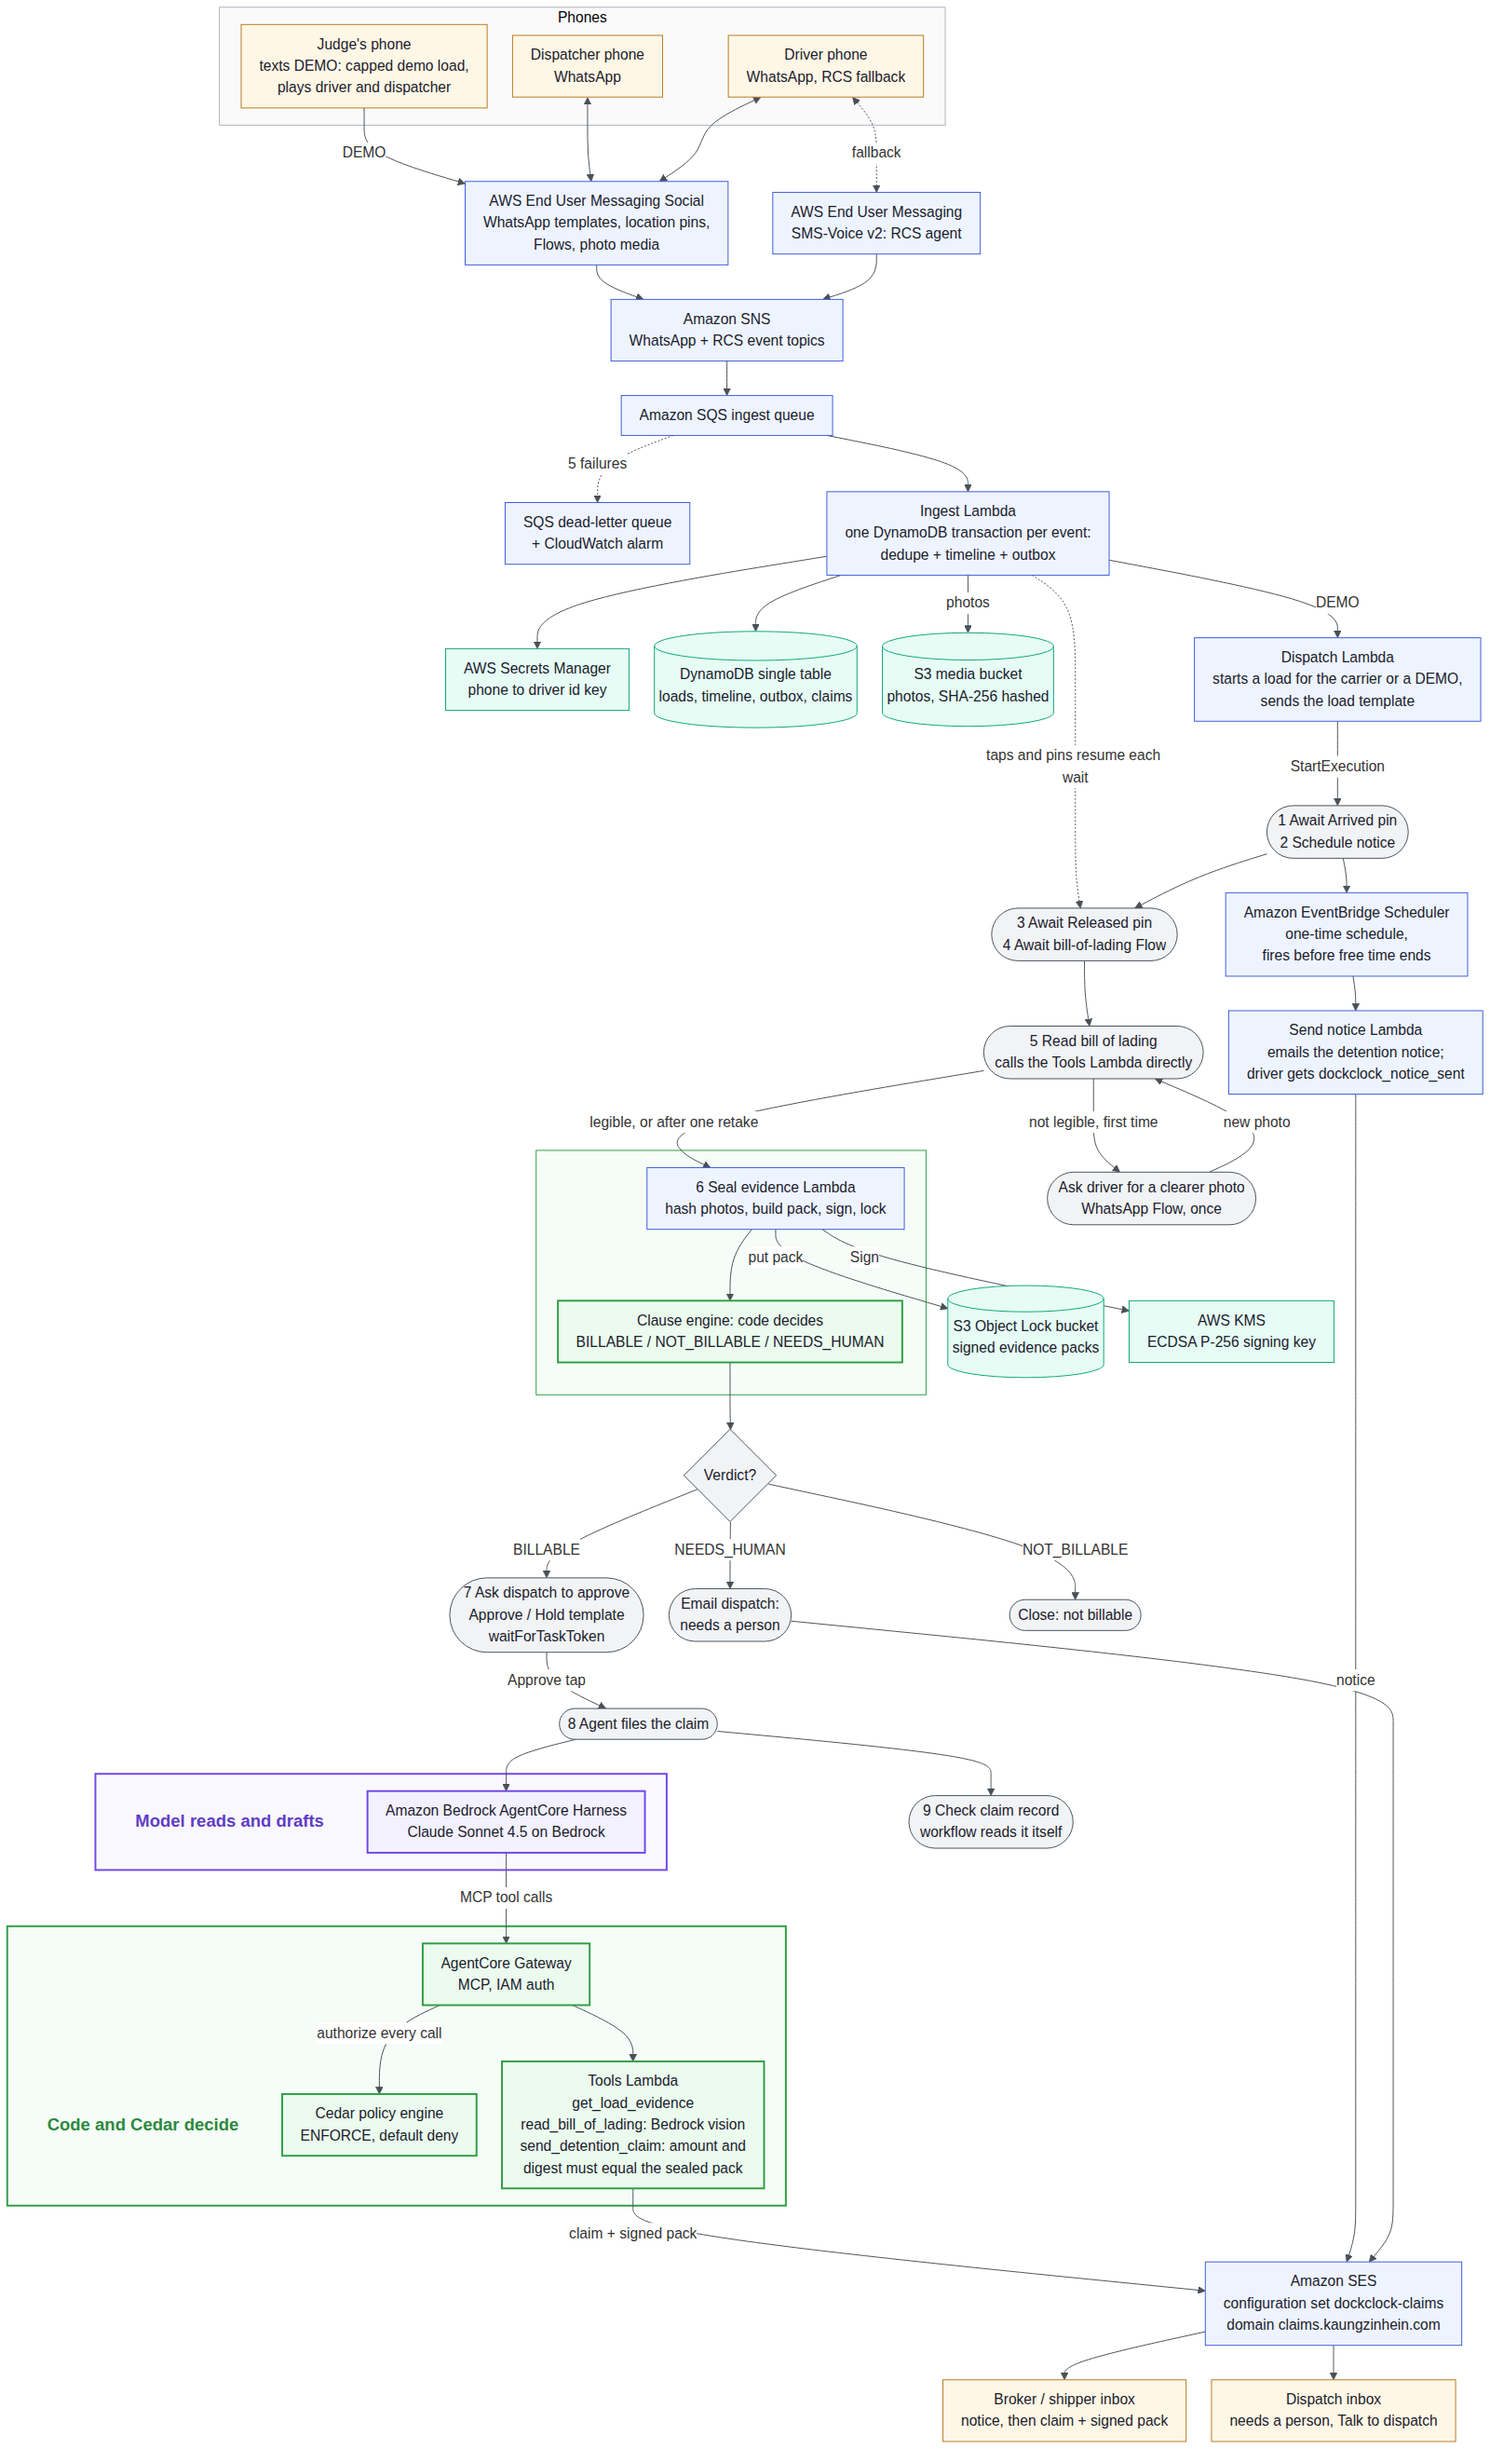
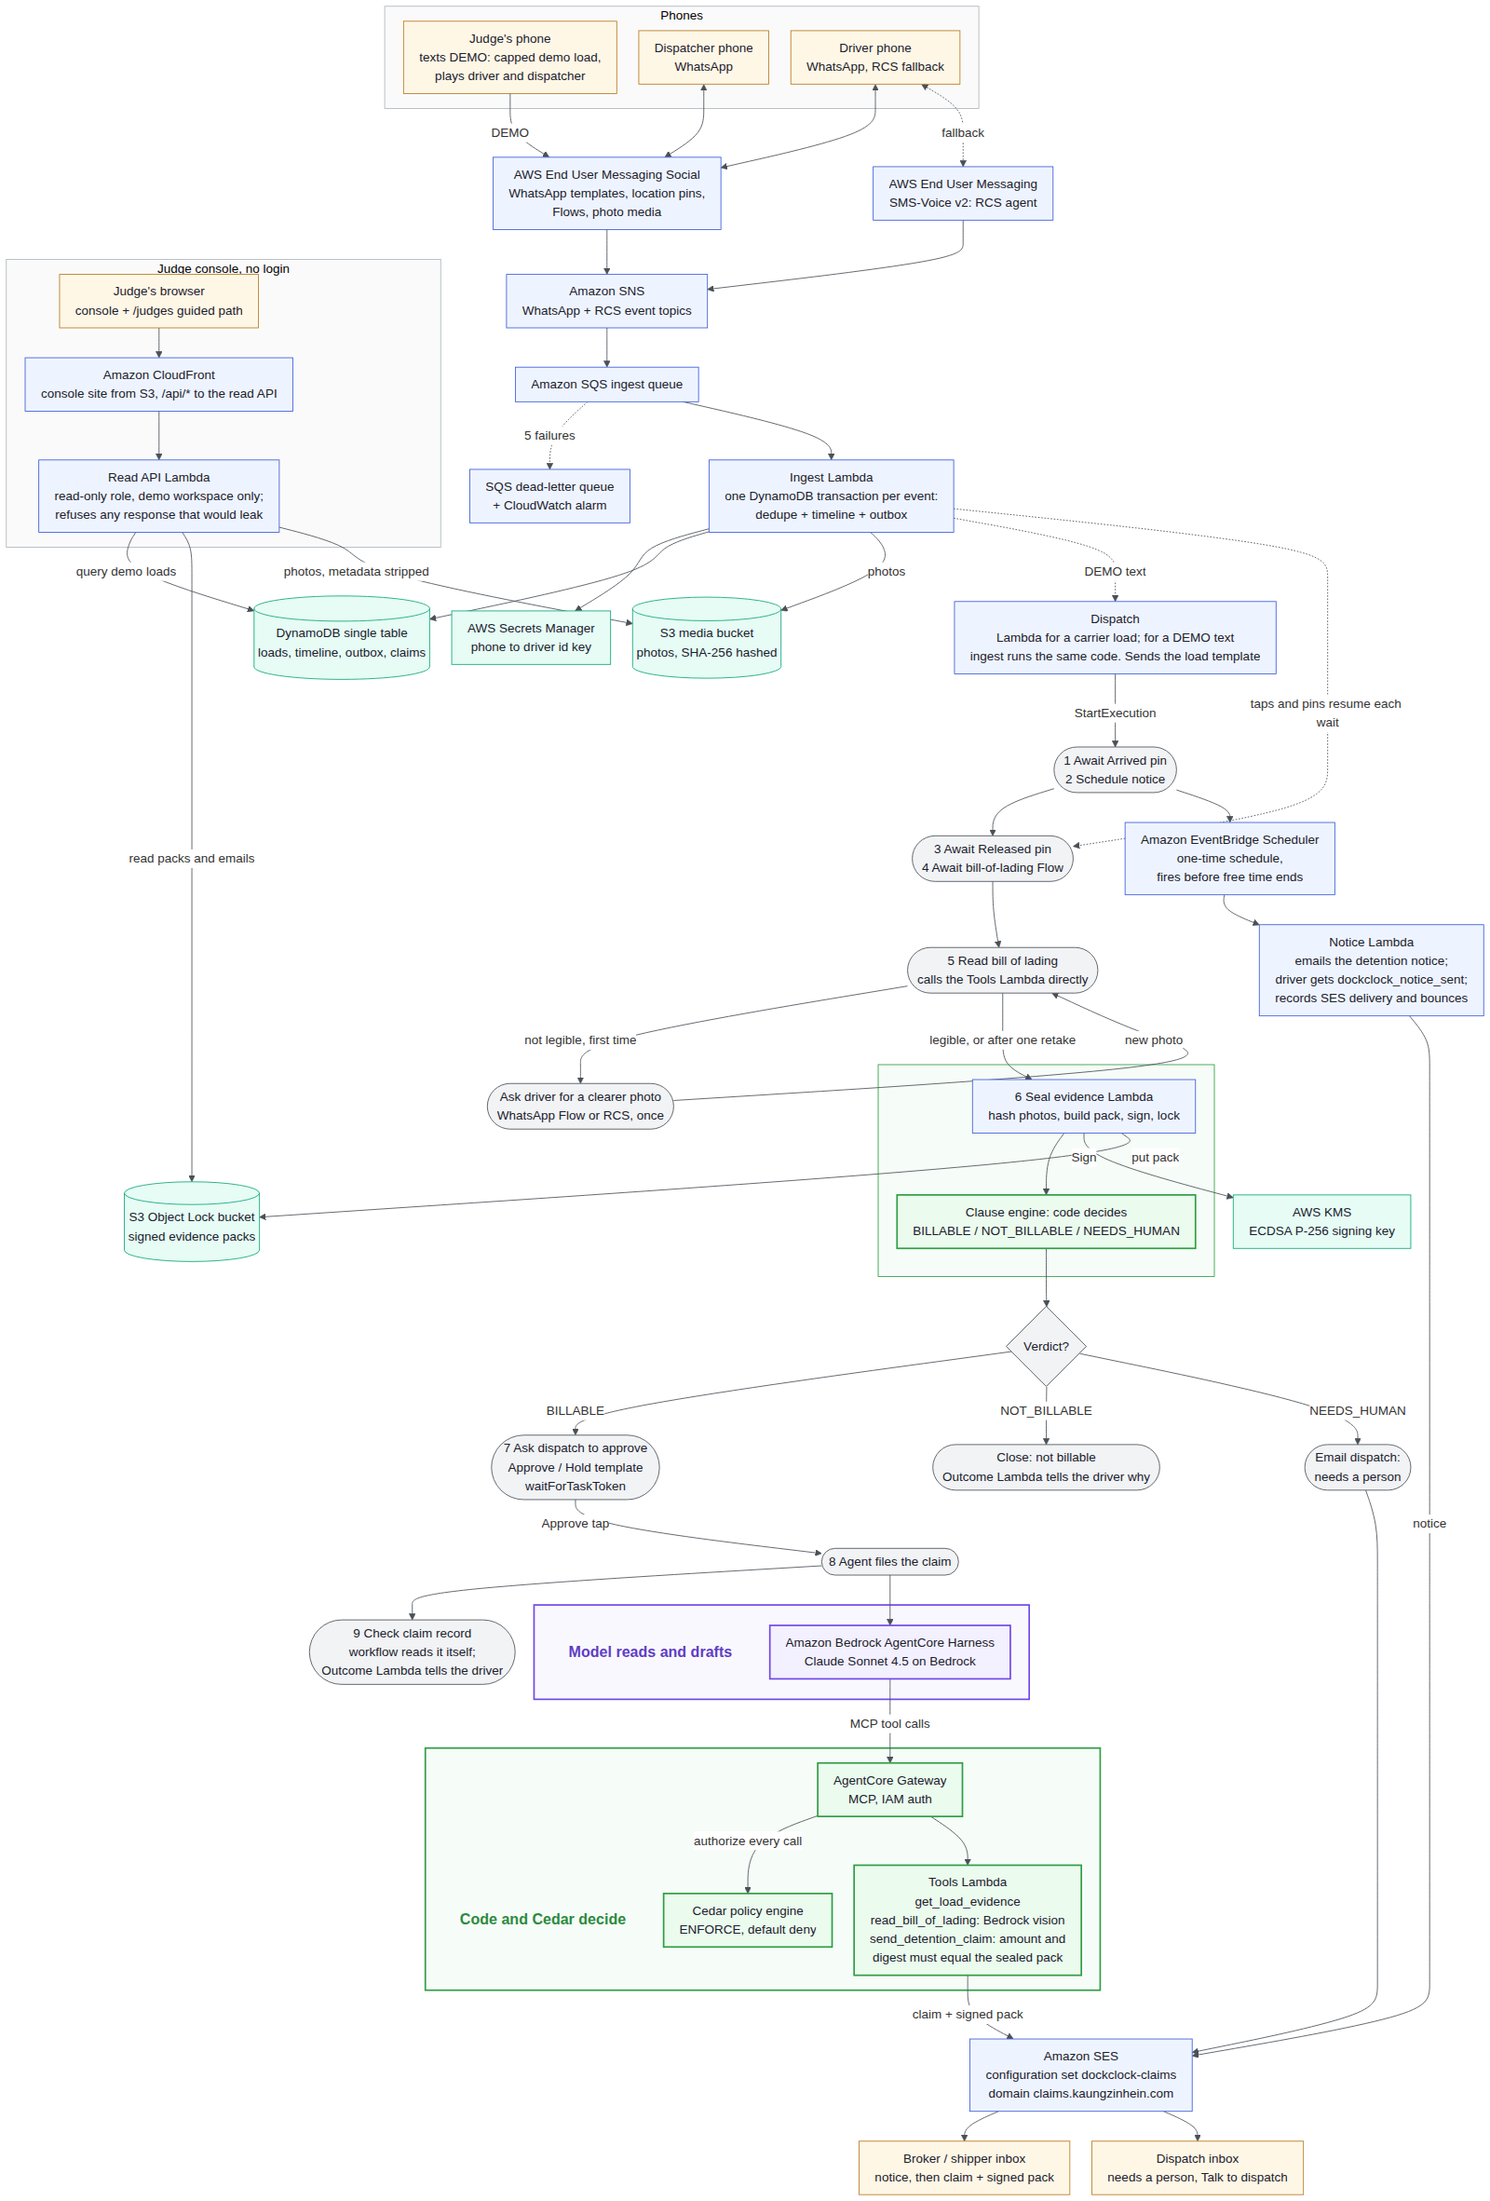
docs: add the judge console to the README and diagram, five stacks, correct who reads the BOL
Claude-Session: https://claude.ai/code/session_01WdL4F7Wc8ms4xPzsNVLR1w

diff --git a/README.md b/README.md
@@ -33,25 +33,27 @@ Carriers also skip billing because they expect to be refused and don't want to d
 4. **Sealed evidence.** Every photo is downloaded into S3 and hashed. The evidence pack is signed with an AWS KMS key and stored under S3 Object Lock, so anyone with the public key can check it later.
 5. **The contract decides, not the model.** A deterministic clause engine returns `BILLABLE`, `NOT_BILLABLE` (with the clause's reason) or `NEEDS_HUMAN`. Pre-filled times the driver left unchanged do not count as independent proof.
 6. **Dispatch approves on WhatsApp.** A BILLABLE load sends the dispatcher the `dockclock_dispatch_approval` template. Only the dispatcher's number, with that request's nonce, can approve, and only once. **Hold** stops the claim; no answer in two days hands it to a person.
-7. **The agent files the claim.** A Bedrock AgentCore agent reads the bill-of-lading photo before sealing, then, once dispatch approves, writes the claim email to the broker or shipper and sends it with Amazon SES, attaching the signed pack. It can only call DockClock's tools through an AgentCore Gateway, where Cedar policies allow the claim tool only with an approval and an amount under a cap. The tool then refuses unless the amount and pack digest equal the sealed values, so a prompt cannot change the money.
+7. **The agent files the claim.** Before sealing, the workflow calls the agent's bill-of-lading tool, which reads the photo with Claude on Amazon Bedrock; the reading only raises or lowers the evidence confidence, it never sets a time or an amount. Once dispatch approves, the Bedrock AgentCore agent writes the claim email to the broker or shipper and sends it with Amazon SES, attaching the signed pack. It can only call DockClock's tools through an AgentCore Gateway, where Cedar policies allow the claim tool only with an approval and an amount under a cap. The tool then refuses unless the amount and pack digest equal the sealed values, so a prompt cannot change the money.
 
 ## What works today, and what is still being built
 We'll tell you before you find it. Every line below is traced to a test, a file or a run in [`FACTS.md`](FACTS.md). Load ids say what kind of run it was: `LIVE-` loads were driven from a real phone; `SMOKE-` loads replay synthetic driver messages through the deployed stack, so everything after the phone (workflow, agent, SES, KMS) is real.
 
-| Works today (proven) | Being built before the 2026-10-24 freeze |
+| Works today (proven) | Not built, or not yet run live |
 |---|---|
-| Steps 1–5 above, run live on a real phone over AWS End User Messaging Social (load `LIVE-mve0rrez`) | Replies to disputes |
+| Steps 1–5 above, run live on a real phone over AWS End User Messaging Social (load `LIVE-mve0rrez`) | Replies to disputes (not built) |
 | **The whole money loop, automatic after sealing:** the dispatcher gets a WhatsApp approval template, taps **Approve claim**, and the AgentCore agent files the claim by SES with the signed pack; the workflow then reads the claim record itself before it reports success (load `SMOKE-mve8yfv3`: synthetic driver messages, a real approval template and tap on the operator's phone, and the claim emailed by SES to our test mailbox 14 seconds after the tap) | A live phone run of the photo retake and of the judge try-it path (both built and tested) |
 | **The detention notice:** EventBridge Scheduler fires before free time ends, SES emails the broker or shipper, the delivery event is recorded, and the sealed pack carries the notice, so clauses that require notice can pay (load `SMOKE-mveb2qnf`, synthetic driver messages: SES reported delivery to our test mailbox 0.7 s after sending) | |
 | A **Bedrock AgentCore** claims agent (Harness + Gateway) bounded by Cedar policies and a code gate on the sealed amount and digest; it refuses without an approval, and a second filing for the same load is refused (the claim is reserved before SES is called) | |
 | Bill-of-lading reading: **26 of 26 fields correct** on 7 fictional test photos, and an honest "not legible" on a real blurry phone photo; the reading is part of the signed evidence. An unreadable photo gets one request for a clearer one (tested; a live phone run is pending) | |
 | **RCS** for drivers without WhatsApp and as failover when a WhatsApp send fails (live on a real phone, load `LIVE-mve1ve6d`: dispatch card, Arrived, two location pins and a bill-of-lading photo over RCS, 2026-10-18 12:52–12:54 EDT; the WhatsApp-to-RCS failover is tested and run with synthetic events) | |
-| Duplicate, out-of-order and stale taps refused; STOP/START honoured; "Talk to dispatch" answers the driver and emails dispatch; a tampered pack fails verification; over 160 automated tests | |
+| Duplicate, out-of-order and stale taps refused; STOP/START honoured; "Talk to dispatch" answers the driver and emails dispatch; a tampered pack fails verification; about 300 automated tests | |
 
 Today the scorecard measures the clause engine on 24 hand-labelled test loads. Its truth column was written by us from each clause's text, so it is a consistency check, not field data.
 
 ## Try it yourself (judges)
-Send **DEMO** on WhatsApp to the DockClock number given on the Devpost submission page (**DEMO ES** for Spanish, **DEMO FR** for Québécois French). It takes about 10 minutes, most of it the real wait (10 more if a photo has to be retaken). You are both the driver and the dispatcher:
+**No phone needed:** open the console at https://d3djuoqhg6b8o2.cloudfront.net/judges. It walks one recorded load in five steps: what was proved, the signed evidence, the filed claim, breaking the signature yourself, and changing one fact. The screens read the live system (a recorded copy stands in if the API is down), and nothing needs a login.
+
+**With a phone:** send **DEMO** on WhatsApp to the DockClock number given on the Devpost submission page (**DEMO ES** for Spanish, **DEMO FR** for Québécois French). It takes about 10 minutes, most of it the real wait (10 more if a photo has to be retaken). You are both the driver and the dispatcher:
 1. Tap **Arrived** and share your location. In the demo any location counts; the pin is still recorded with WhatsApp's server timestamp.
 2. Free time is 5 minutes. Wait longer than that. Shortly after you arrive a detention notice is emailed, and the chat tells you.
 3. Tap **Released**, share your location again, write on a piece of paper the arrival and release times the chat and the form show (US Eastern time in the demo), and photograph it in the form. Keep the times the form suggests.
@@ -90,7 +92,7 @@ Per load this is **3 utility templates (driver dispatch, notice sent, dispatcher
 ## Run it
 ```bash
 npm ci
-npm test            # over 160 tests
+npm test            # about 300 tests (plus the console's own)
 npm run scorecard   # recomputes the headline above
 ```
 Deploying to your own AWS account (CDK) needs an existing WhatsApp Business Account linked to AWS End User Messaging Social; see `.env.example`.

diff --git a/docs/architecture.md b/docs/architecture.md
@@ -1,6 +1,6 @@
 # DockClock architecture
 
-![DockClock architecture: driver and dispatcher phones, AWS End User Messaging, the Step Functions load lifecycle, sealed evidence, the AgentCore claims agent behind Cedar, and Amazon SES](architecture.png)
+![DockClock architecture: driver and dispatcher phones, AWS End User Messaging, the Step Functions load lifecycle, sealed evidence, the AgentCore claims agent behind Cedar, Amazon SES, and the judge console on CloudFront](architecture.png)
 
 Source: [`architecture.mmd`](architecture.mmd) (Mermaid). Vector copy: [`architecture.svg`](architecture.svg). Re-render both with `npx tsx scripts/render-architecture.ts`.
 
@@ -25,11 +25,11 @@ Source: [`architecture.mmd`](architecture.mmd) (Mermaid). Vector copy: [`archite
 | AWS End User Messaging SMS-Voice v2 | Runs the RCS agent that reaches drivers without WhatsApp and takes over when a WhatsApp send fails. |
 | Amazon SNS | Carries inbound WhatsApp and RCS events (and SES delivery events) from the messaging services to DockClock. |
 | Amazon SQS | Buffers every inbound event for the ingest Lambda, and parks an event that fails five times in a dead-letter queue. |
-| AWS Lambda | Runs DockClock's code: ingest, dispatch, the wait steps, sealing, notices, approval requests, the agent's tools and the agent invoker. |
+| AWS Lambda | Runs DockClock's code: ingest, dispatch, the wait steps, sealing, notices, approval requests, outcomes to the driver, the agent's tools, the agent invoker and the console's read API. |
 | Amazon DynamoDB | Holds each load in one table, and the ingest Lambda writes one transaction per event that dedupes it, appends the timeline and queues the outbox. |
 | AWS Step Functions | Runs one load lifecycle per load, waiting on task tokens for the driver's pins and Flow and the dispatcher's approval. |
 | Amazon EventBridge Scheduler | Fires a one-time schedule, set after the Arrived pin, that sends the detention notice before free time ends. |
-| Amazon S3 | Keeps the driver's photos (hashed) in a media bucket and the signed evidence packs in an Object Lock bucket. |
+| Amazon S3 | Keeps the driver's photos (hashed) in a media bucket, the signed evidence packs and sent emails in an Object Lock bucket, and the console's static site. |
 | AWS KMS | Signs each evidence pack with an ECDSA P-256 key whose public half lets anyone verify it offline. |
 | AWS Secrets Manager | Holds the key that turns a phone number into an opaque driver id. |
 | Amazon Bedrock | Runs Claude Sonnet 4.5, which reads the bill-of-lading photo and drafts the claim email. |
@@ -37,5 +37,7 @@ Source: [`architecture.mmd`](architecture.mmd) (Mermaid). Vector copy: [`archite
 | Amazon Bedrock AgentCore Gateway | Serves DockClock's tools to the agent over MCP with IAM auth. |
 | AgentCore Policy (Cedar) | Authorizes every tool call in ENFORCE mode, default deny, and allows the claim tool only with an approval and an amount under the cap. |
 | Amazon SES | Sends the detention notice and the claim with its signed pack to the broker or shipper, and escalations to dispatch, through the `dockclock-claims` configuration set. |
+| Amazon CloudFront | Serves the judge console with no login, and routes `/api/*` to the read API, whose read-only role sees only demo-workspace loads and which refuses to send any response that would leak a phone number, location or id. |
 | Amazon CloudWatch | Logs every function and alarms on dead-lettered events, failed lifecycles and SES bounce or complaint rates. |
-| AWS CDK | Deploys all of the above as four stacks: core, messaging, email and agent. |
+| AWS X-Ray | Traces the load lifecycle and its Lambdas, so one load's path through the services can be followed. |
+| AWS CDK | Deploys all of the above as five stacks: core, messaging, email, agent and desk (the console). |
